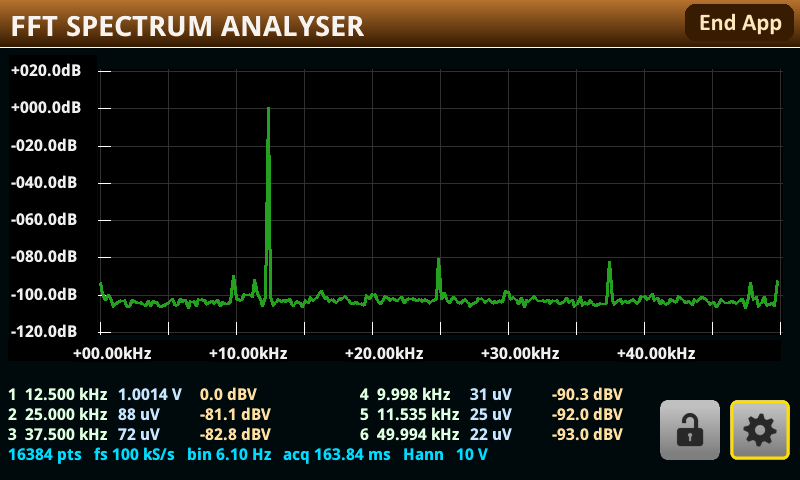
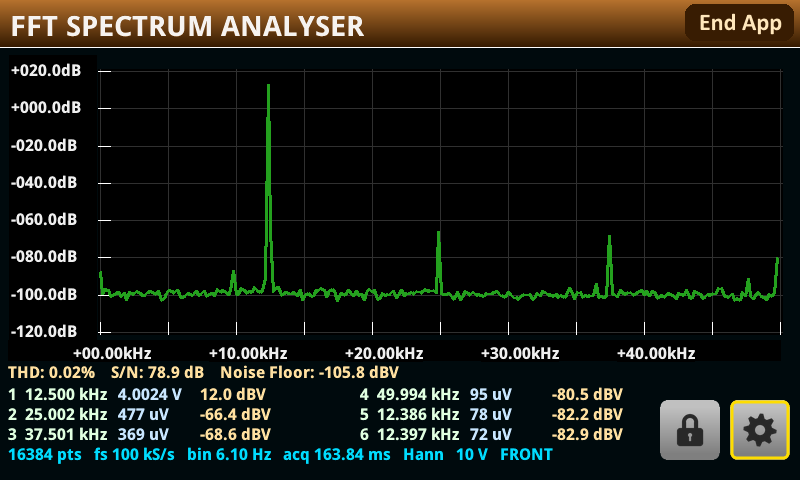
Refresh the screen grabs, and add one of Kaiser 18
All three retaken on 3.6 with an 8 Vp-p 12.5 kHz tone, so the captions now quote 12.0 dBV
rather than 0.0 and name the distortion line. The 512 and 16384 pair carries the point that
the noise floor is a per-bin level and S/N is not: 78.4 against 78.9 dB S/N, -89.7 against
-105.8 dBV floor, which is the 3 dB a doubling the bins give.

The Kaiser 18 shot is new, because the manual now recommends that window for S/N and the
floor and had no picture of it. It reads within two decibels of Hann where the two
disagreed by 23 before the leakage outliers were clipped.

diff --git a/docs/MANUAL.md b/docs/MANUAL.md
@@ -8,7 +8,7 @@ screen and buffer the app made.
 
 ## The spectrum screen
 
-![The spectrum screen: a 12.5 kHz 1.0014 V tone reading 0.0 dBV as a single 195 Hz-wide lump, over a 10 Hz to 50 kHz span at 512 samples with the Hann window. The vertical axis is labelled +020.0dB down to -120.0dB and the horizontal axis +00.00kHz to +40.00kHz, both by the firmware. The noise floor sits near -100 dB. A padlock button, open, and a cog button sit to the right of the peak table](manual-spectrum.png)
+![The spectrum screen: a 12.5 kHz 4.0020 V tone reading 12.0 dBV as a single 195 Hz-wide lump, over a 10 Hz to 50 kHz span at 512 samples with the Hann window. The vertical axis is labelled +020.0dB down to -120.0dB and the horizontal axis +00.00kHz to +40.00kHz, both by the firmware. The noise floor sits near -95 dB. Between the graph and the peak table a line reads THD 0.01%, S/N 78.4 dB and a noise floor of -89.7 dBV. A padlock button, closed, and a cog button sit to the right of the peak table](manual-spectrum.png)
 
 +20 to −120 dBV against frequency. By default, 512 samples a frame, 256 bins, 10 frames a second.
 Options offers larger records for finer bin spacing, at a slower update rate.
@@ -84,6 +84,11 @@ at −100, because three bins of pure signal each side were averaged in as noise
 beta 18. Kaiser beta 4 and 6 are the exceptions at 37 and 48 dB — their sidelobes are 30 and 40 dB
 down and integrate across the whole band, which no skirt can exclude. A reading near the ceiling is
 telling you about the window rather than the instrument.
+
+![The same capture with Kaiser beta 18: the 12.5 kHz tone at 12.0 dBV with visibly narrower skirts than
+Hann, and a distortion line reading THD 0.01%, S/N 77.0 dB and a noise floor of -103.9 dBV -- within
+two decibels of what Hann reports, where before the leakage outliers were clipped the two windows
+disagreed by 23](manual-spectrum-kaiser18.png)
 
 **For the most accurate S/N and noise floor, use Kaiser with beta = 18 at 16,384 samples.** Both
 figures are limited by the window before they are limited by the instrument, and Kaiser 18 is the
@@ -416,9 +421,11 @@ Three consequences, and the first is the point of it:
 | bins in a 50 kHz span | 255 | 511 | 1023 | 2047 | 4095 | 8191 |
 | points drawn | 255 | 380 | 441 | 475 | 496 | 502 |
 
-![The spectrum screen at 16384 samples: the 12.5 kHz tone as a narrow spike at 0.0 dBV, its second
-and third harmonics resolved as separate spikes at 25.000 and 37.500 kHz, and the noise floor drawn
-as a single line near -100 dB, with the padlock and cog buttons right of the peak table. The axes are the firmware's own, +020.0dB to -120.0dB and +00.00kHz to
+![The spectrum screen at 16384 samples: the 12.5 kHz tone as a narrow spike at 12.0 dBV, its second
+and third harmonics resolved as separate spikes at 25.002 and 37.501 kHz, and the noise floor drawn
+as a single line near -100 dB, with the padlock and cog buttons right of the peak table. The
+distortion line reads THD 0.02%, S/N 78.9 dB and a noise floor of -105.8 dBV -- 16 dB below the
+512-sample figure, which is the 3 dB a doubling a per-bin level gives. The axes are the firmware's own, +020.0dB to -120.0dB and +00.00kHz to
 +40.00kHz](manual-spectrum-16384.png)
 
 Compare the 512-sample shot at the top of this manual, where the same tone is a single 195 Hz-wide

diff --git a/README.md b/README.md
@@ -4,9 +4,10 @@ A real-time FFT spectrum analyser for the Keithley DMM6500, DAQ6510 and DMM7510,
 on the instrument** as a TSP app. The digitizer captures, the instrument computes the transform in
 Lua, and the firmware's own graph object draws the trace. No host, no PC software.
 
-![The spectrum screen at 16,384 samples: a 12.5 kHz 1.0014 V tone reading 0.0 dBV as a narrow spike, its 
-second and third harmonics resolved as separate lines at 25.000 and 37.500 kHz, 81 and 83 dB down, over a 10 Hz 
-to 50 kHz span with 6.1 Hz bins. The firmware labels the axes itself, +020.0dB down to -120.0dB and 
+![The spectrum screen at 16,384 samples: a 12.5 kHz 4.0024 V tone reading 12.0 dBV as a narrow spike, its 
+second and third harmonics resolved as separate lines at 25.002 and 37.501 kHz, 78 and 81 dB down, over a 10 Hz 
+to 50 kHz span with 6.1 Hz bins. Between the graph and the peak table, THD 0.02%, S/N 78.9 dB and a noise floor 
+of -105.8 dBV. The firmware labels the axes itself, +020.0dB down to -120.0dB and 
 +00.00kHz across to +40.00kHz](docs/manual-spectrum-16384.png)
 
 A bench multimeter is not a spectrum analyser. This one has a 1 MS/s digitizer, a 400 MHz processor
@@ -48,8 +49,10 @@ below the signal's own content folds it into view.
 More samples give finer bins without reducing bandwidth: 16,384 samples at 100 kS/s give
 6.10 Hz spacing. Larger sizes cost update rate. `docs/PERFORMANCE.md` has every size measured.
 
-![The same tone at the default 512 samples: one 195 Hz-wide lump, the harmonics lost in the noise 
-floor, at 10 frames a second](docs/manual-spectrum.png)
+![The same tone at the default 512 samples: one 195 Hz-wide lump and the harmonics barely clear of the 
+noise floor, at 10 frames a second. S/N reads 78.4 dB, within a decibel of the 16,384-sample figure, while the 
+noise floor reads -89.7 dBV against -105.8: the floor is a per-bin level and narrows with the bins, where S/N is 
+against the integrated noise and does not move](docs/manual-spectrum.png)
 
 The same signal at the default 512 samples, for comparison: 195 Hz bins at 10 frames a second, where
 the harmonics are in the floor. 
